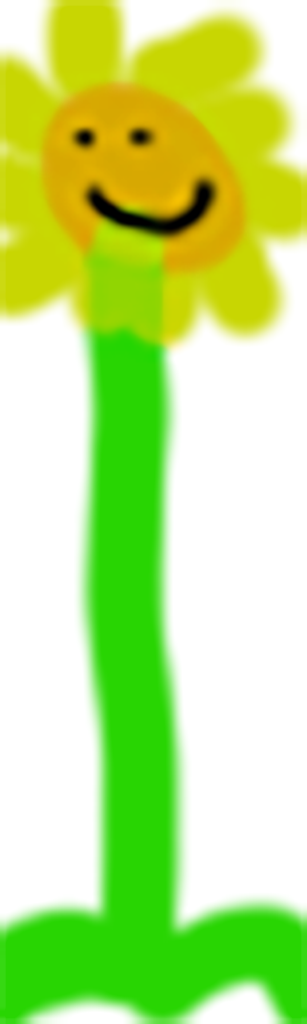
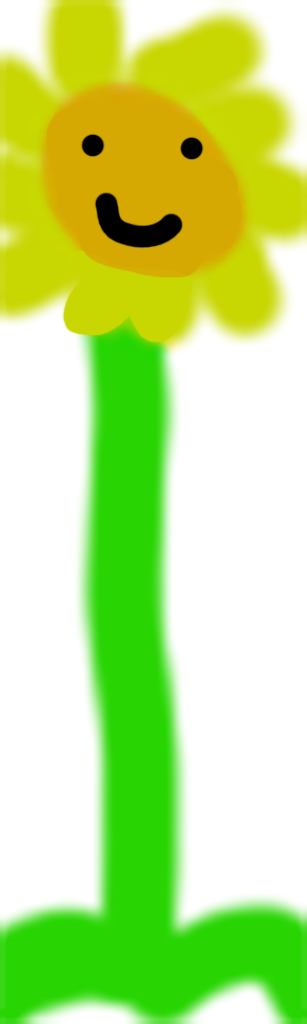
Annet ansikt på blomstene når det er game over

Changed region(s): [[0.2052, 0.125, 0.7036, 0.3438], [0.4104, 0.125, 0.5277, 0.1562]]

diff --git a/game/src/scripts/game_engine.ts b/game/src/scripts/game_engine.ts
@@ -39,12 +39,9 @@ export class GameEngine {
 	}
 
 	update() {
-		if (this.dead) {
-			return;
-		}
 		this.game_context.clearRect(0, 0, this.max_width, this.max_height);
 		this.update_sunflowers();
-		this.bird.update();
+		this.bird.update(this.dead);
 
 		this.sunflowers.forEach((flower) => {
 			if (
@@ -56,6 +53,7 @@ export class GameEngine {
 					this.bird.vertical_position > flower.vertical_position + flower.gap_between_flowers
 				) {
 					this.dead = true;
+					flower.die();
 					this.finish();
 				} else {
 					scoreStore.update((n) => Math.min(5, n + 1));
@@ -68,7 +66,7 @@ export class GameEngine {
 
 	update_sunflowers() {
 		this.sunflowers.forEach((sunflower) => {
-			sunflower.update();
+			sunflower.update(this.dead);
 		});
 		this.sunflowers = this.sunflowers.filter((sunflower) => {
 			return !sunflower.should_be_deleted();

diff --git a/game/src/scripts/bird.ts b/game/src/scripts/bird.ts
@@ -21,7 +21,15 @@ export class Bird {
 		this.addEventListeners();
 	}
 
-	update() {
+	update(game_over: boolean) {
+		if (!game_over) {
+			this.move();
+		}
+
+		this.game_context.drawImage(this.image, this.horizontal_position, this.vertical_position);
+	}
+
+	move() {
 		if (this.going_up) {
 			this.vertical_position -= this.speed;
 			this.vertical_position = Math.max(this.vertical_position, 0);
@@ -29,8 +37,6 @@ export class Bird {
 			this.vertical_position += this.speed;
 			this.vertical_position = Math.min(this.vertical_position, this.max_height - 20);
 		}
-
-		this.game_context.drawImage(this.image, this.horizontal_position, this.vertical_position);
 	}
 
 	should_be_deleted() {

diff --git a/game/src/scripts/sunflower.ts b/game/src/scripts/sunflower.ts
@@ -30,11 +30,13 @@ export class Sunflower {
 		this.speed += this.added_speed_each_sunflower * sunflower_id;
 	}
 
-	update() {
-		this.position -= this.speed;
+	update(game_over: boolean) {
+		if (!game_over) {
+			this.position -= this.speed;
+		}
 
-		this.game_context.scale(1, -1);
 		//upper
+		this.game_context.scale(1, -1);
 		this.game_context.drawImage(
 			this.image,
 			this.position,
@@ -59,6 +61,7 @@ export class Sunflower {
 	}
 
 	die() {
-		//TODO death animation
+		this.image = new Image();
+		this.image.src = 'solsikke_dead.png';
 	}
 }

diff --git a/game/src/components/Game.svelte b/game/src/components/Game.svelte
@@ -9,7 +9,7 @@
 	let score: number;
 	const unsubscribeScore = scoreStore.subscribe((value) => (score = value));
 
-	const deathAnimationDuration = 1000; //in ms
+	const deathAnimationDuration = 1600; //in ms
 
 	const CANVAS_SIZE = {
 		width: 768,
